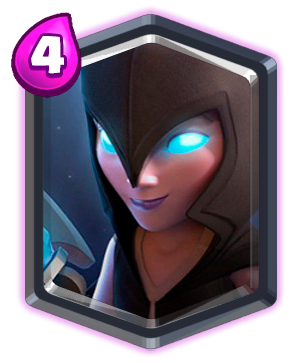
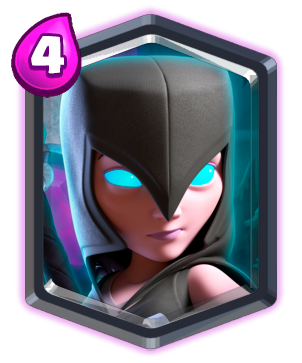
night witch re-art

diff --git a/cardgen/mastery.py b/cardgen/mastery.py
@@ -17,10 +17,12 @@ class CardMastery:
     assets_folder = '/Users/sml/Dropbox/_projects/RoyaleAPI_dev/ui/mastery/mastery-assets'
     spells_folder = '/Users/sml/git/cr-cardgen/cardgen/card-src-104x132'
 
-    def __init__(self):
+    def __init__(self, limit_card_keys=None):
         self._cards_data = None
         self._card_filenames = None
         self._config = None
+
+        self.limit_card_keys = limit_card_keys
 
     @property
     def cards_data(self):
@@ -34,6 +36,11 @@ class CardMastery:
                 'super-mini-pekka',
             ]
         ]
+
+        if self.limit_card_keys is not None:
+            self._cards_data = [
+                c for c in self._cards_data if c.get('key') in self.limit_card_keys
+            ]
 
         return self._cards_data
 
@@ -119,5 +126,7 @@ class CardMastery:
 
 
 if __name__ == '__main__':
-    job = CardMastery()
+    job = CardMastery(
+        limit_card_keys=['night-witch'],
+    )
     job.run()

diff --git a/cardgen/cardgen.py b/cardgen/cardgen.py
@@ -21,10 +21,23 @@ CONFIG = os.path.join("config.yaml")
 pngquant.config('/usr/local/bin/pngquant')
 
 
+
 def load_json(filename):
     """Load json by filename."""
     with open(filename, encoding='utf-8', mode='r') as f:
         data = json.load(f)
+
+    # limit_card_keys = None
+    limit_card_keys = [
+        'night-witch'
+    ]
+
+    if limit_card_keys is not None:
+        data = [
+            c for c in data if c.get('key') in limit_card_keys
+        ]
+
+
     return data
 
 
